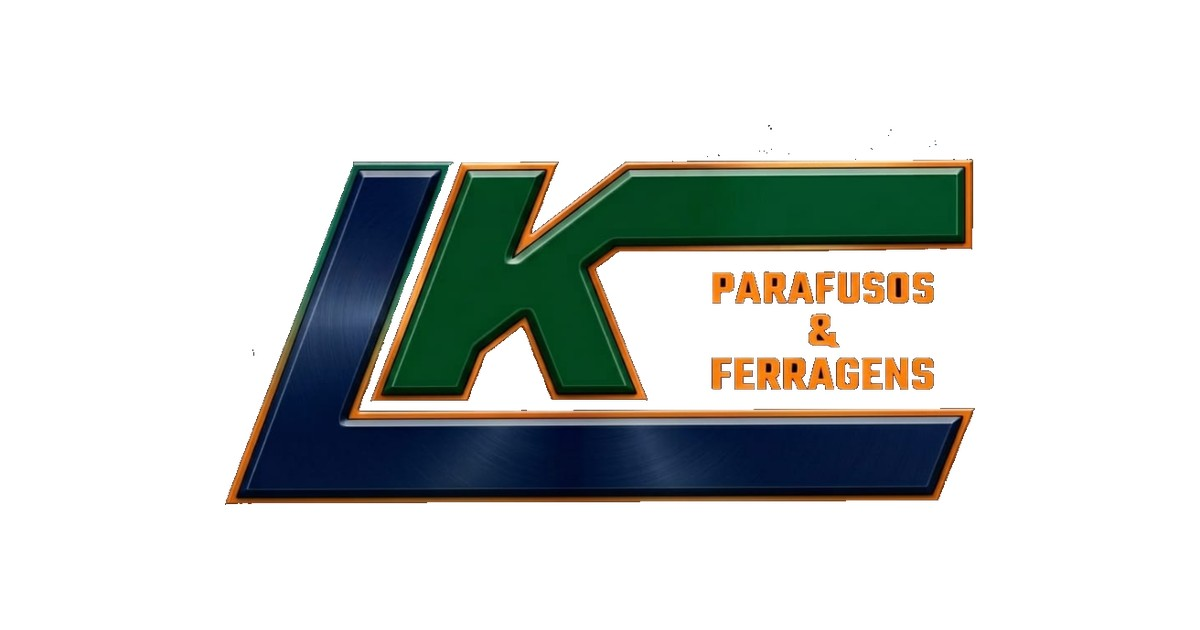
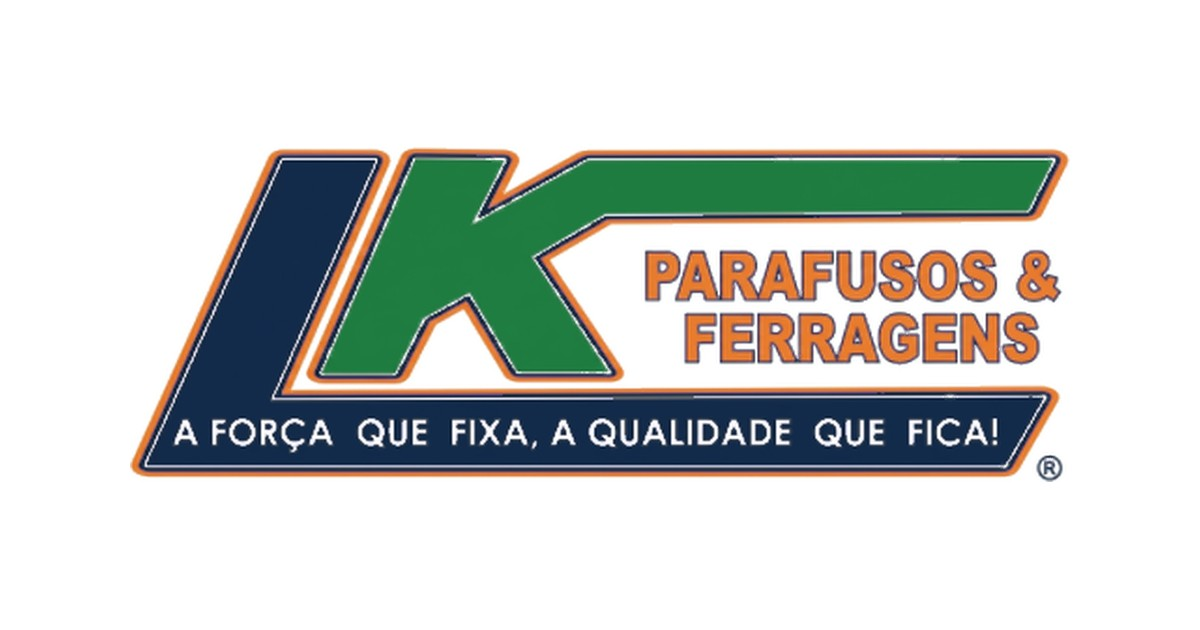
Sincroniza alterações locais

diff --git a/index.html b/index.html
@@ -61,7 +61,7 @@
       --text-muted:     #58637A;
       --green-wpp:      #128C4A;
       --green-wpp-dark: #0D6B39;
-      --header-h:       80px;
+      --header-h:       100px;
       --ease:           0.3s ease;
       --ease-bounce:    0.35s cubic-bezier(.34, 1.56, .64, 1);
       --r-sm:           12px;
@@ -160,7 +160,7 @@
     }
 
     .logo img {
-      height: 56px;
+      height: 86px;
       width: auto;
       flex-shrink: 0;
       transition: transform var(--ease);
@@ -1154,8 +1154,8 @@
 
     .foot-grid { display: grid; grid-template-columns: 1.4fr 1fr 1fr 1.2fr; gap: 3rem; padding-bottom: 3rem; }
 
-    .foot-logo { display: flex; align-items: center; gap: 0.65rem; margin-bottom: 1.25rem; }
-    .foot-logo img { height: 54px; width: auto; }
+    .foot-logo { display: inline-flex; align-items: center; margin-bottom: 1.25rem; background: var(--white); padding: 0.7rem 1rem; border-radius: 14px; }
+    .foot-logo img { height: 76px; width: auto; }
     .foot-logo span { font-family: 'Oswald', sans-serif; font-size: 1.12rem; font-weight: 600; text-transform: uppercase; color: var(--white); }
 
     .foot-tagline { font-size: 0.9rem; line-height: 1.7; margin-bottom: 1.5rem; max-width: 320px; color: rgba(255, 255, 255, 0.72); }
@@ -1254,11 +1254,11 @@
     }
 
     @media (max-width: 1250px) {
-      :root { --header-h: 68px; }
+      :root { --header-h: 84px; }
 
       #inicio { background-position: 62% 42%; }
 
-      .logo img { height: 48px; }
+      .logo img { height: 70px; }
 
       .main-nav {
         display: none;
@@ -1302,7 +1302,7 @@
     @media (max-width: 420px) {
       .header-inner { padding: 0 1rem; gap: 0.75rem; }
       .logo { gap: 0.5rem; }
-      .logo img { height: 38px; }
+      .logo img { height: 58px; }
       .logo-tag { font-size: 0.55rem; letter-spacing: 0.1em; }
     }
 
@@ -1310,7 +1310,7 @@
       .btn-orange, .btn-ghost-white { padding: 0.85rem 1.25rem; font-size: 0.72rem; letter-spacing: 0.04em; }
       .btn-wpp { padding: 0.7rem 0.9rem; font-size: 0.73rem; gap: 0.3rem; }
       .hero-content h1 { font-size: 2.2rem; }
-      .logo img { height: 34px; }
+      .logo img { height: 52px; }
     }
 
     @media (prefers-reduced-motion: reduce) {
@@ -1337,11 +1337,7 @@
   <header id="site-header" role="banner">
     <div class="header-inner">
       <a href="#inicio" class="logo" aria-label="LK Parafusos e Ferragens — início">
-        <img src="images/logo.png" alt="Logotipo LK Parafusos e Ferragens" width="140" height="71">
-        <span class="logo-text">
-          <span class="logo-name">LK Parafusos e Ferragens</span>
-          <span class="logo-tag">Campo Grande · MS</span>
-        </span>
+        <img src="images/logo.svg" alt="Logotipo LK Parafusos e Ferragens — A força que fixa, a qualidade que fica!" width="239" height="86">
       </a>
 
       <nav id="main-nav" class="main-nav" role="navigation" aria-label="Menu principal">
@@ -1461,6 +1457,8 @@
       <span class="marquee-dot">•</span>
       <span class="marquee-item">Mix completo para construção civil</span>
       <span class="marquee-dot">•</span>
+      <span class="marquee-item">A força que fixa, a qualidade que fica!</span>
+      <span class="marquee-dot">•</span>
       <span class="marquee-item">Parafusos</span>
       <span class="marquee-dot">•</span>
       <span class="marquee-item">Ferragens</span>
@@ -1472,6 +1470,8 @@
       <span class="marquee-item">Atendimento de qualidade</span>
       <span class="marquee-dot">•</span>
       <span class="marquee-item">Mix completo para construção civil</span>
+      <span class="marquee-dot">•</span>
+      <span class="marquee-item">A força que fixa, a qualidade que fica!</span>
       <span class="marquee-dot">•</span>
     </div>
   </div>
@@ -1614,7 +1614,7 @@
   <section class="cta-band" aria-labelledby="cta-band-h2">
     <div class="cta-band-inner reveal">
       <span class="sec-tag">Nosso compromisso</span>
-      <h2 id="cta-band-h2">Construindo o futuro com força e qualidade!</h2>
+      <h2 id="cta-band-h2">A força que fixa, a qualidade que fica!</h2>
       <p>Da fundação ao acabamento, a LK fornece o parafuso, a ferragem e a ferramenta certa para cada etapa da sua obra em Campo Grande e no Mato Grosso do Sul.</p>
       <a href="https://wa.me/556791405777?text=Ol%C3%A1!%20Gostaria%20de%20fazer%20um%20or%C3%A7amento%20com%20a%20LK%20Parafusos%20e%20Ferragens."
          target="_blank" rel="noopener noreferrer" class="btn-orange"
@@ -1689,7 +1689,7 @@
 
         <div class="prod-card reveal">
           <div class="prod-photo">
-            <div class="prod-photo-img" style="background-image:url('images/prod-construcao.jpg')" role="img" aria-label="Tijolos empilhados para construção civil"></div>
+            <div class="prod-photo-img" style="background-image:url('images/prod-mix.jpg')" role="img" aria-label="Mix de produtos: silicones, selantes, espumas, tintas spray, pincéis, rolos, EPIs, cordas, ferramentas e conexões"></div>
           </div>
           <div class="prod-body">
             <span class="prod-badge">Mix construção</span>
@@ -1766,7 +1766,7 @@
                 <div class="vitrine-mock-line"></div>
               </div>
               <div class="vitrine-mock-item">
-                <div class="vitrine-mock-photo" style="background-image:url('images/prod-construcao.jpg')"></div>
+                <div class="vitrine-mock-photo" style="background-image:url('images/prod-mix.jpg')"></div>
                 <div class="vitrine-mock-name">Mix construção</div>
                 <div class="vitrine-mock-line"></div>
               </div>
@@ -1911,7 +1911,7 @@
             </span>
           </summary>
           <div class="faq-a">
-            <p>Atendemos de segunda a sexta, das 8h às 18h, e aos sábados das 8h às 12h.</p>
+            <p>Atendemos de segunda a sexta, das 7h30 às 17h, e aos sábados das 7h30 às 11h30.</p>
           </div>
         </details>
 
@@ -1923,7 +1923,7 @@
             </span>
           </summary>
           <div class="faq-a">
-            <p>Sim, estamos na R. Adélia Fraiha, 436 — Res. Búzios, Campo Grande/MS. Combine a retirada com a gente pelo WhatsApp antes de vir até a loja.</p>
+            <p>Sim, estamos na Av. Júlio de Castilho, 3033 — Loja 03, Bairro Panamá, Campo Grande/MS. Combine a retirada com a gente pelo WhatsApp antes de vir até a loja.</p>
           </div>
         </details>
 
@@ -1952,9 +1952,7 @@
             </div>
             <div>
               <h3>Vendas · WhatsApp</h3>
-              <a href="https://wa.me/556791405777" target="_blank" rel="noopener noreferrer" aria-label="WhatsApp de vendas: (67) 9140-5777">
-                (67) 9140-5777 <span style="color:var(--orange-dark);font-size:0.78rem;font-weight:700">· WhatsApp</span>
-              </a>
+              <a href="https://wa.me/556791405777" target="_blank" rel="noopener noreferrer" aria-label="WhatsApp de vendas: (67) 9140-5777">(67) 9140-5777</a>
             </div>
           </div>
 
@@ -1968,8 +1966,8 @@
               </svg>
             </div>
             <div>
-              <h3>Financeiro</h3>
-              <a href="tel:+556791985517" aria-label="Telefone do financeiro: (67) 9198-5517">(67) 9198-5517</a>
+              <h3>Financeiro · WhatsApp</h3>
+              <a href="https://wa.me/556791985517" target="_blank" rel="noopener noreferrer" aria-label="WhatsApp do financeiro: (67) 9198-5517">(67) 9198-5517</a>
             </div>
           </div>
 
@@ -1989,6 +1987,20 @@
           <div class="info-row">
             <div class="info-ico" aria-hidden="true">
               <svg viewBox="0 0 24 24" fill="none" stroke-width="2" stroke-linecap="round" stroke-linejoin="round" aria-hidden="true">
+                <rect x="2" y="2" width="20" height="20" rx="5"/>
+                <circle cx="12" cy="12" r="4"/>
+                <circle cx="17.5" cy="6.5" r="0.6"/>
+              </svg>
+            </div>
+            <div>
+              <h3>Instagram</h3>
+              <a href="https://www.instagram.com/lkparafusos/" target="_blank" rel="noopener noreferrer" aria-label="Instagram da LK Parafusos: @lkparafusos">@lkparafusos</a>
+            </div>
+          </div>
+
+          <div class="info-row">
+            <div class="info-ico" aria-hidden="true">
+              <svg viewBox="0 0 24 24" fill="none" stroke-width="2" stroke-linecap="round" stroke-linejoin="round" aria-hidden="true">
                 <path d="M21 10c0 7-9 13-9 13s-9-6-9-13a9 9 0 0 1 18 0z"/>
                 <circle cx="12" cy="10" r="3"/>
               </svg>
@@ -1996,9 +2008,10 @@
             <div>
               <h3>Endereço</h3>
               <p>
-                R. Adélia Fraiha, 436 — Res. Búzios<br>
+                Av. Júlio de Castilho, 3033 — Loja 03<br>
+                Bairro Panamá<br>
                 Campo Grande — MS<br>
-                CEP 79106-065
+                CEP 79113-000
               </p>
             </div>
           </div>
@@ -2012,7 +2025,7 @@
             </div>
             <div>
               <h3>Horário de atendimento</h3>
-              <p>Segunda a sexta: 8h às 18h<br>Sábado: 8h às 12h</p>
+              <p>Segunda a sexta: 7h30 às 17h<br>Sábado: 7h30 às 11h30</p>
             </div>
           </div>
 
@@ -2028,9 +2041,12 @@
             Chamar no WhatsApp
           </a>
 
-          <div class="contato-social" role="list" aria-label="Contato rápido">
+          <div class="contato-social" role="list" aria-label="Redes e contato rápido">
             <a href="https://wa.me/556791405777" target="_blank" rel="noopener noreferrer" aria-label="WhatsApp">
               <svg viewBox="0 0 24 24" xmlns="http://www.w3.org/2000/svg"><path d="M17.472 14.382c-.297-.149-1.758-.867-2.03-.967-.273-.099-.471-.148-.67.15-.197.297-.767.966-.94 1.164-.173.199-.347.223-.644.075-.297-.15-1.255-.463-2.39-1.475-.883-.788-1.48-1.761-1.653-2.059-.173-.297-.018-.458.13-.606.134-.133.298-.347.446-.52.149-.174.198-.298.298-.497.099-.198.05-.371-.025-.52-.075-.149-.669-1.612-.916-2.207-.242-.579-.487-.5-.669-.51-.173-.008-.371-.01-.57-.01-.198 0-.52.074-.792.372-.272.297-1.04 1.016-1.04 2.479 0 1.462 1.065 2.875 1.213 3.074.149.198 2.096 3.2 5.077 4.487.709.306 1.262.489 1.694.625.712.227 1.36.195 1.871.118.571-.085 1.758-.719 2.006-1.413.248-.694.248-1.289.173-1.413-.074-.124-.272-.198-.57-.347m-5.421 7.403h-.004a9.87 9.87 0 01-5.031-1.378l-.361-.214-3.741.982.998-3.648-.235-.374a9.86 9.86 0 01-1.51-5.26c.001-5.45 4.436-9.884 9.888-9.884 2.64 0 5.122 1.03 6.988 2.898a9.825 9.825 0 012.893 6.994c-.003 5.45-4.437 9.884-9.885 9.884m8.413-18.297A11.815 11.815 0 0012.05 0C5.495 0 .16 5.335.157 11.892c0 2.096.547 4.142 1.588 5.945L.057 24l6.305-1.654a11.882 11.882 0 005.683 1.448h.005c6.554 0 11.89-5.335 11.893-11.893a11.821 11.821 0 00-3.48-8.413z"/></svg>
+            </a>
+            <a href="https://www.instagram.com/lkparafusos/" target="_blank" rel="noopener noreferrer" aria-label="Instagram @lkparafusos">
+              <svg viewBox="0 0 24 24" xmlns="http://www.w3.org/2000/svg"><path d="M12 2.163c3.204 0 3.584.012 4.85.07 3.252.148 4.771 1.691 4.919 4.919.058 1.265.069 1.645.069 4.849 0 3.205-.012 3.584-.069 4.849-.149 3.225-1.664 4.771-4.919 4.919-1.266.058-1.644.07-4.85.07-3.204 0-3.584-.012-4.849-.07-3.26-.149-4.771-1.699-4.919-4.92-.058-1.265-.07-1.644-.07-4.849 0-3.204.013-3.583.07-4.849.149-3.227 1.664-4.771 4.919-4.919 1.266-.057 1.645-.069 4.849-.069zM12 0C8.741 0 8.333.014 7.053.072 2.695.272.273 2.69.073 7.052.014 8.333 0 8.741 0 12c0 3.259.014 3.668.072 4.948.2 4.358 2.618 6.78 6.98 6.98C8.333 23.986 8.741 24 12 24c3.259 0 3.668-.014 4.948-.072 4.354-.2 6.782-2.618 6.979-6.98.059-1.28.073-1.689.073-4.948 0-3.259-.014-3.667-.072-4.947-.196-4.354-2.617-6.78-6.979-6.98C15.668.014 15.259 0 12 0zm0 5.838a6.162 6.162 0 1 0 0 12.324 6.162 6.162 0 0 0 0-12.324zM12 16a4 4 0 1 1 0-8 4 4 0 0 1 0 8zm6.406-11.845a1.44 1.44 0 1 0 0 2.881 1.44 1.44 0 0 0 0-2.881z"/></svg>
             </a>
           </div>
         </div>
@@ -2048,13 +2064,15 @@
         <!-- Marca -->
         <div class="foot-brand">
           <div class="foot-logo">
-            <img src="images/logo.png" alt="Logotipo LK Parafusos e Ferragens">
-            <span>LK Parafusos e Ferragens</span>
+            <img src="images/logo.svg" alt="Logotipo LK Parafusos e Ferragens" width="211" height="76">
           </div>
           <p class="foot-tagline">Parafusos, ferragens, ferramentas e um mix completo para a construção civil em Campo Grande, MS. Preço justo e atendimento de qualidade.</p>
           <div class="foot-social">
             <a href="https://wa.me/556791405777" target="_blank" rel="noopener noreferrer" aria-label="WhatsApp">
               <svg viewBox="0 0 24 24" xmlns="http://www.w3.org/2000/svg"><path d="M17.472 14.382c-.297-.149-1.758-.867-2.03-.967-.273-.099-.471-.148-.67.15-.197.297-.767.966-.94 1.164-.173.199-.347.223-.644.075-.297-.15-1.255-.463-2.39-1.475-.883-.788-1.48-1.761-1.653-2.059-.173-.297-.018-.458.13-.606.134-.133.298-.347.446-.52.149-.174.198-.298.298-.497.099-.198.05-.371-.025-.52-.075-.149-.669-1.612-.916-2.207-.242-.579-.487-.5-.669-.51-.173-.008-.371-.01-.57-.01-.198 0-.52.074-.792.372-.272.297-1.04 1.016-1.04 2.479 0 1.462 1.065 2.875 1.213 3.074.149.198 2.096 3.2 5.077 4.487.709.306 1.262.489 1.694.625.712.227 1.36.195 1.871.118.571-.085 1.758-.719 2.006-1.413.248-.694.248-1.289.173-1.413-.074-.124-.272-.198-.57-.347m-5.421 7.403h-.004a9.87 9.87 0 01-5.031-1.378l-.361-.214-3.741.982.998-3.648-.235-.374a9.86 9.86 0 01-1.51-5.26c.001-5.45 4.436-9.884 9.888-9.884 2.64 0 5.122 1.03 6.988 2.898a9.825 9.825 0 012.893 6.994c-.003 5.45-4.437 9.884-9.885 9.884m8.413-18.297A11.815 11.815 0 0012.05 0C5.495 0 .16 5.335.157 11.892c0 2.096.547 4.142 1.588 5.945L.057 24l6.305-1.654a11.882 11.882 0 005.683 1.448h.005c6.554 0 11.89-5.335 11.893-11.893a11.821 11.821 0 00-3.48-8.413z"/></svg>
+            </a>
+            <a href="https://www.instagram.com/lkparafusos/" target="_blank" rel="noopener noreferrer" aria-label="Instagram @lkparafusos">
+              <svg viewBox="0 0 24 24" xmlns="http://www.w3.org/2000/svg"><path d="M12 2.163c3.204 0 3.584.012 4.85.07 3.252.148 4.771 1.691 4.919 4.919.058 1.265.069 1.645.069 4.849 0 3.205-.012 3.584-.069 4.849-.149 3.225-1.664 4.771-4.919 4.919-1.266.058-1.644.07-4.85.07-3.204 0-3.584-.012-4.849-.07-3.26-.149-4.771-1.699-4.919-4.92-.058-1.265-.07-1.644-.07-4.849 0-3.204.013-3.583.07-4.849.149-3.227 1.664-4.771 4.919-4.919 1.266-.057 1.645-.069 4.849-.069zM12 0C8.741 0 8.333.014 7.053.072 2.695.272.273 2.69.073 7.052.014 8.333 0 8.741 0 12c0 3.259.014 3.668.072 4.948.2 4.358 2.618 6.78 6.98 6.98C8.333 23.986 8.741 24 12 24c3.259 0 3.668-.014 4.948-.072 4.354-.2 6.782-2.618 6.979-6.98.059-1.28.073-1.689.073-4.948 0-3.259-.014-3.667-.072-4.947-.196-4.354-2.617-6.78-6.979-6.98C15.668.014 15.259 0 12 0zm0 5.838a6.162 6.162 0 1 0 0 12.324 6.162 6.162 0 0 0 0-12.324zM12 16a4 4 0 1 1 0-8 4 4 0 0 1 0 8zm6.406-11.845a1.44 1.44 0 1 0 0 2.881 1.44 1.44 0 0 0 0-2.881z"/></svg>
             </a>
           </div>
         </div>
@@ -2090,7 +2108,7 @@
           <ul class="foot-contact-list">
             <li>
               <svg viewBox="0 0 24 24" xmlns="http://www.w3.org/2000/svg"><path d="M12 2C8.13 2 5 5.13 5 9c0 5.25 7 13 7 13s7-7.75 7-13c0-3.87-3.13-7-7-7zm0 9.5c-1.38 0-2.5-1.12-2.5-2.5s1.12-2.5 2.5-2.5 2.5 1.12 2.5 2.5-1.12 2.5-2.5 2.5z"/></svg>
-              <span>Campo Grande, MS<br>R. Adélia Fraiha, 436 — Res. Búzios</span>
+              <span>Av. Júlio de Castilho, 3033 — Loja 03<br>Bairro Panamá · Campo Grande, MS</span>
             </li>
             <li>
               <svg viewBox="0 0 24 24" xmlns="http://www.w3.org/2000/svg"><path d="M6.62 10.79c1.44 2.83 3.76 5.14 6.59 6.59l2.2-2.2c.27-.27.67-.36 1.02-.24 1.12.37 2.33.57 3.57.57.55 0 1 .45 1 1V20c0 .55-.45 1-1 1-9.39 0-17-7.61-17-17 0-.55.45-1 1-1h3.5c.55 0 1 .45 1 1 0 1.25.2 2.45.57 3.57.11.35.03.74-.25 1.02l-2.2 2.2z"/></svg>
@@ -2098,7 +2116,7 @@
             </li>
             <li>
               <svg viewBox="0 0 24 24" xmlns="http://www.w3.org/2000/svg"><path d="M6.62 10.79c1.44 2.83 3.76 5.14 6.59 6.59l2.2-2.2c.27-.27.67-.36 1.02-.24 1.12.37 2.33.57 3.57.57.55 0 1 .45 1 1V20c0 .55-.45 1-1 1-9.39 0-17-7.61-17-17 0-.55.45-1 1-1h3.5c.55 0 1 .45 1 1 0 1.25.2 2.45.57 3.57.11.35.03.74-.25 1.02l-2.2 2.2z"/></svg>
-              <a href="tel:+556791985517">(67) 9198-5517 · Financeiro</a>
+              <a href="https://wa.me/556791985517" target="_blank" rel="noopener noreferrer">(67) 9198-5517 · Financeiro</a>
             </li>
             <li>
               <svg viewBox="0 0 24 24" xmlns="http://www.w3.org/2000/svg"><path d="M20 4H4c-1.1 0-1.99.9-1.99 2L2 18c0 1.1.9 2 2 2h16c1.1 0 2-.9 2-2V6c0-1.1-.9-2-2-2zm0 4l-8 5-8-5V6l8 5 8-5v2z"/></svg>

diff --git a/vitrine.html b/vitrine.html
@@ -94,7 +94,7 @@
     }
 
     .logo img {
-      height: 52px;
+      height: 72px;
       width: auto;
       flex-shrink: 0;
     }
@@ -197,7 +197,7 @@
     .nav-toggle:focus-visible { outline: 3px solid var(--orange); outline-offset: 2px; border-radius: 3px; }
 
     @media (max-width: 1250px) {
-      .logo img { height: 42px; }
+      .logo img { height: 66px; }
 
       .main-nav {
         display: none;
@@ -224,7 +224,7 @@
     @media (max-width: 420px) {
       .header-inner { padding: 0 1rem; gap: 0.75rem; }
       .logo { gap: 0.5rem; }
-      .logo img { height: 34px; }
+      .logo img { height: 58px; }
       .logo-tag { font-size: 0.55rem; letter-spacing: 0.1em; }
     }
 
@@ -247,11 +247,7 @@
   <header id="site-header" role="banner">
     <div class="header-inner">
       <a href="index.html#inicio" class="logo" aria-label="LK Parafusos e Ferragens — início">
-        <img src="images/logo.png" alt="Logotipo LK Parafusos e Ferragens" width="103" height="52">
-        <span class="logo-text">
-          <span class="logo-name">LK Parafusos e Ferragens</span>
-          <span class="logo-tag">Campo Grande · MS</span>
-        </span>
+        <img src="images/logo.svg" alt="Logotipo LK Parafusos e Ferragens" width="200" height="72">
       </a>
 
       <nav id="main-nav" class="main-nav" role="navigation" aria-label="Menu principal">
